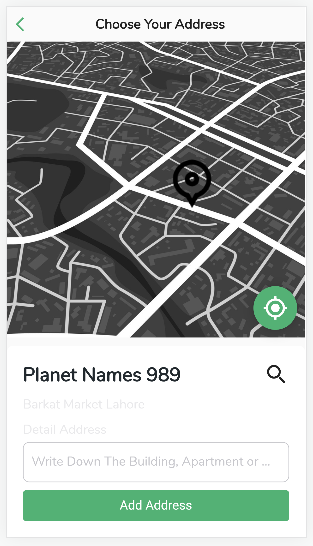
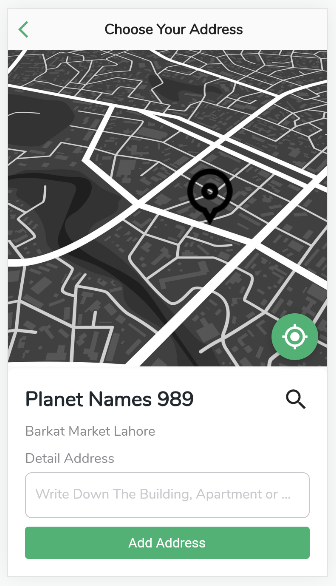
changes Apply

diff --git a/ecommerce_app_flutter/lib/screens/map_screen.dart b/ecommerce_app_flutter/lib/screens/map_screen.dart
@@ -49,7 +49,9 @@ class MapScreen extends StatelessWidget {
                           'assets/Images/curLoc.png',
                       ),
                   ),
+
                   BottomCard(),
+
                 ],
               ),
             ),
@@ -74,7 +76,6 @@ class BottomCard extends StatelessWidget {
             Padding(
               padding: EdgeInsets.symmetric(
                 horizontal: getProportionateScreenWidth(10),
-                vertical: getProportionateScreenWidth(10),
               ),
               child: SizedBox(
                 width: getProportionateScreenWidth(55),
@@ -82,10 +83,10 @@ class BottomCard extends StatelessWidget {
                 child: FloatingActionButton(
 
                   onPressed: () {},
-                child: Icon(
+                  child: Icon(
                     Icons.gps_fixed,
-                  size: getProportionateScreenWidth(32),
-                ),
+                    size: getProportionateScreenWidth(32),
+                  ),
                   backgroundColor: kPrimaryGreen,
                 ),
               ),
@@ -143,7 +144,7 @@ class BottomCard extends StatelessWidget {
                         'Barkat Market Lahore',
                       style:
                       Theme.of(context).textTheme.headline4.copyWith(
-                        color: kFillColorAccent,
+                        color: kTextColorAccent,
                       ),
                     ),
                     SizedBox(
@@ -153,7 +154,7 @@ class BottomCard extends StatelessWidget {
                       'Detail Address',
                       style:
                       Theme.of(context).textTheme.headline4.copyWith(
-                        color: kFillColorAccent,
+                        color: kTextColorAccent,
                       ),
                     ),
                     SizedBox(
